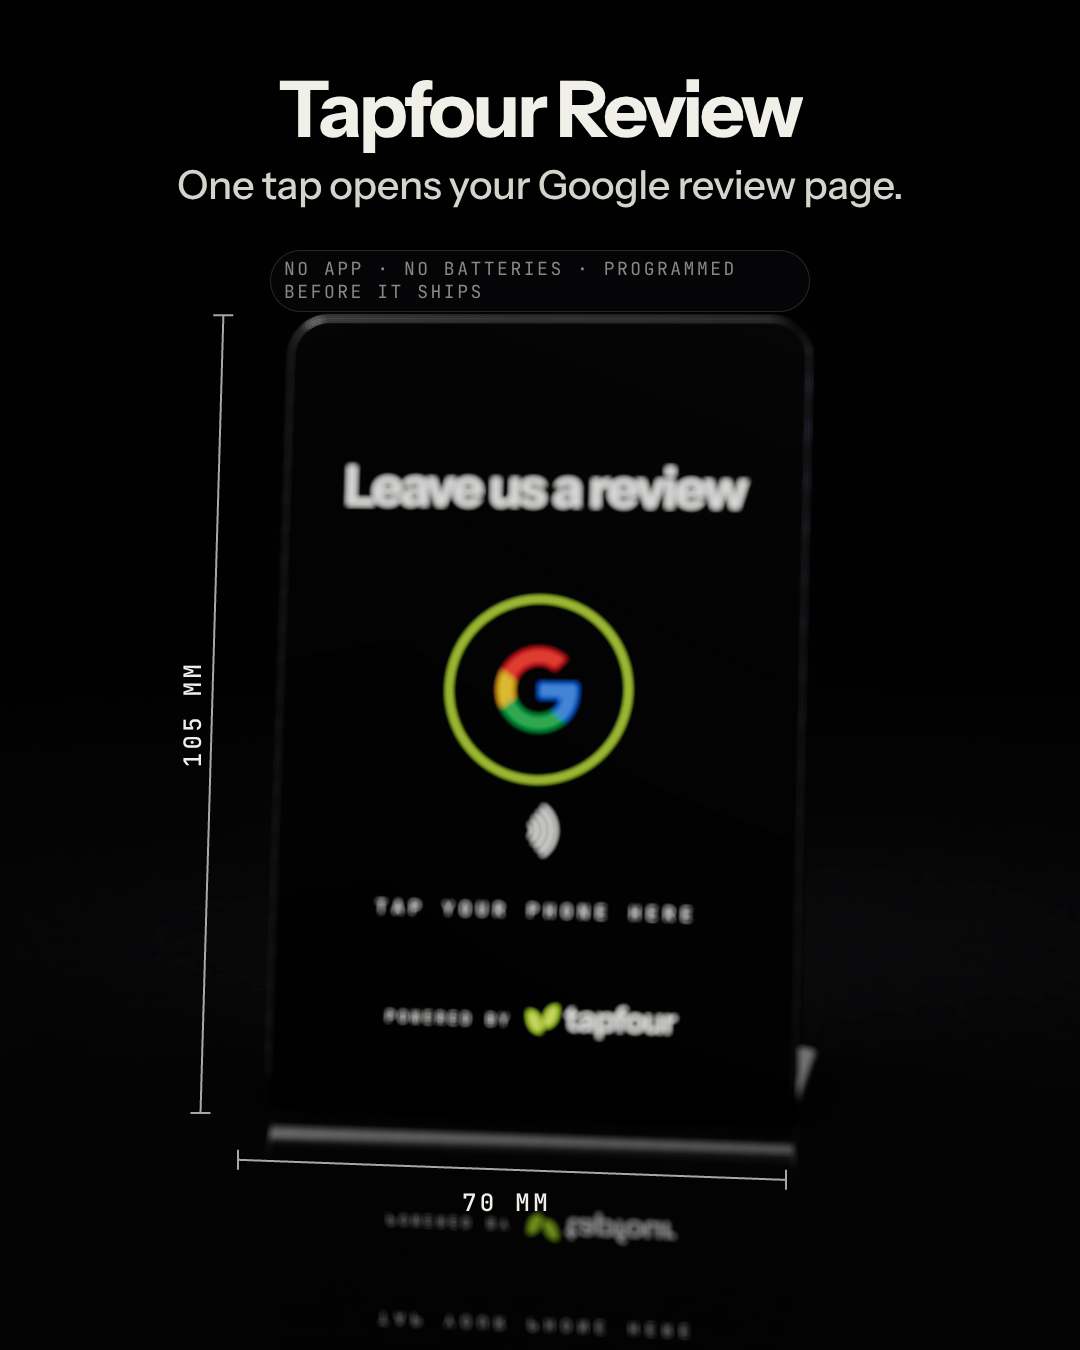
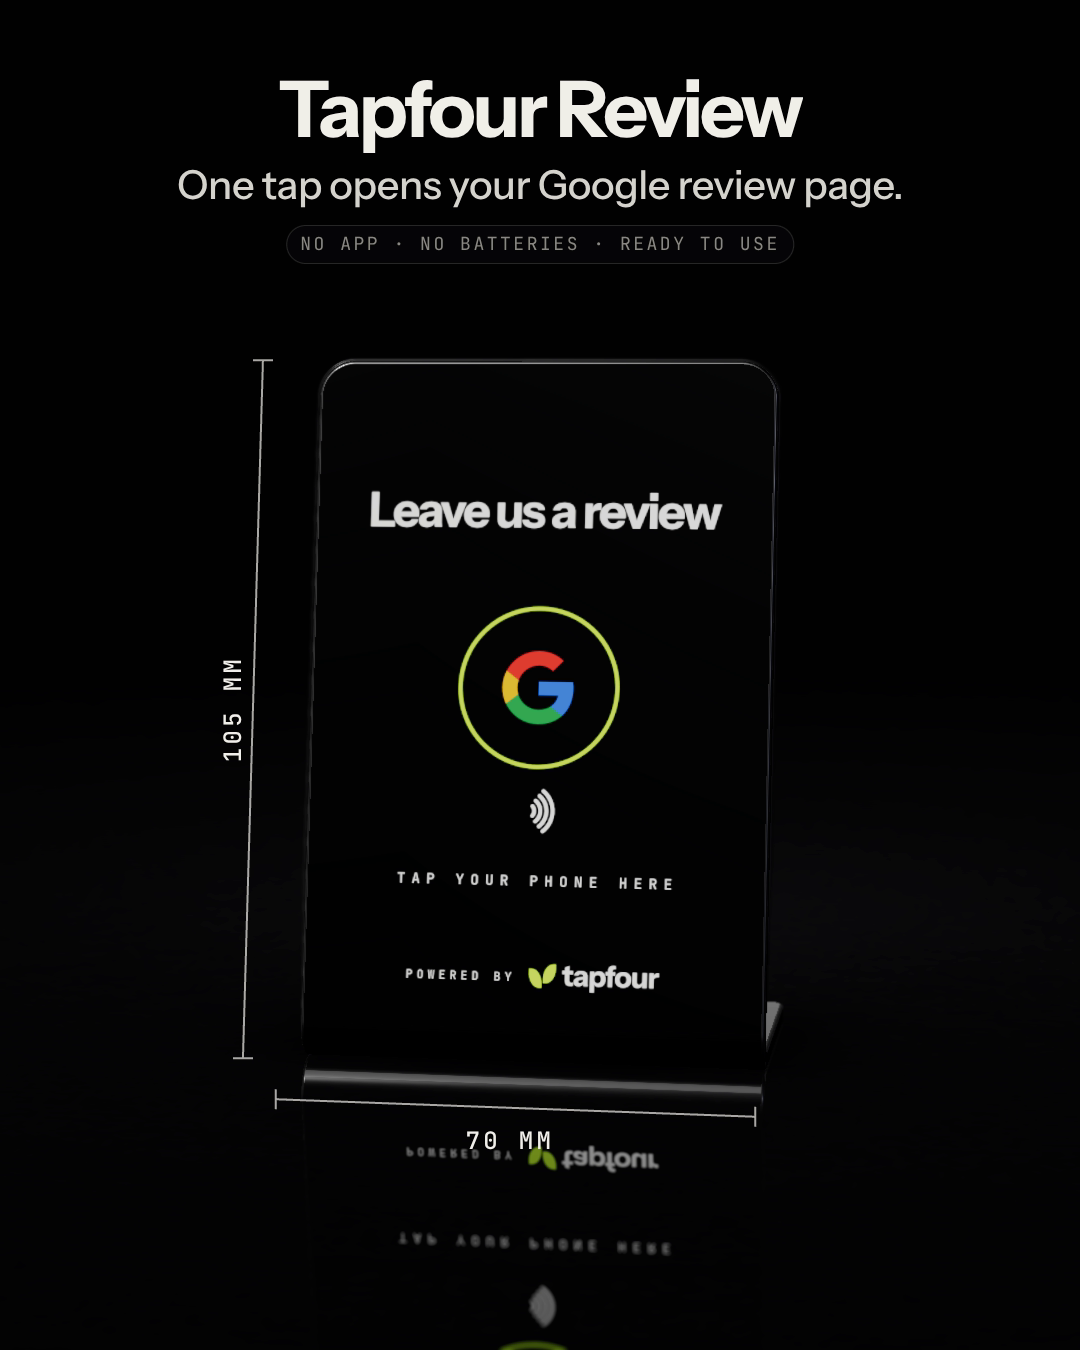
Campaign: fix detail-plate focus for stills; finalise carousel and story
The detail plate measured focus from the previous frame's camera, which blurred
single-frame statics. Re-rendered carousel slide 3 and the story.

Claude-Session: https://claude.ai/code/session_016A6PEYTBQywQ3XAkc9PKVC

diff --git a/campaign/web/shots/details.js b/campaign/web/shots/details.js
@@ -30,21 +30,21 @@ export async function update(t) {
     const k = t / CUTS[0];
     pos = kf(k, [[0, [120, 150, 95]], [1, [95, 142, 110]]], ease.sine); tgt = [26, 100, -6];
     S.scene.environmentRotation.y = -0.9 + k * 1.1;
-    f = S.cam.position.distanceTo(new THREE.Vector3(30, 100, -8));
+    f = new THREE.Vector3(30, 100, -8);
   } else if (t < CUTS[1]) { // 2 · the bend and the base, low side angle
     const k = (t - CUTS[0]) / (CUTS[1] - CUTS[0]);
     stand.rotation.y = -1.18 - 0.3 * ease.sine(k);
     pos = kf(k, [[0, [-20, 40, 290]], [1, [-8, 42, 272]]], ease.sine); tgt = [-6, 30, -12];
     S.scene.environmentRotation.y = 0.2 + k * 0.6;
-    f = S.cam.position.distanceTo(new THREE.Vector3(0, 30, -8));
+    f = new THREE.Vector3(0, 30, -8);
   } else { // 3 · frontal hero, the whole stand, dimensions draw on
     const k = seg(t, CUTS[1], duration);
     pos = kf(k, [[0, [150, 124, 500]], [1, [70, 108, 462]]], ease.out); tgt = kf(k, [[0, [0, 60, -5]], [1, [0, 58, -5]]], ease.out);
     S.scene.environmentRotation.y = -0.4 + ease.inOut(k) * 0.7;
-    f = S.cam.position.distanceTo(new THREE.Vector3(0, 55, 0));
+    f = new THREE.Vector3(0, 55, 0);
   }
   S.cam.position.set(...pos); S.cam.lookAt(...tgt);
-  S.focus(f);
+  S.focus(S.cam.position.distanceTo(f)); // focus on the subject from this frame's camera
   S.render();
   // dimensions: only in the hero section
   const d = seg(t, CUTS[1] + 1.2, CUTS[1] + 2.2), o = t > CUTS[1] ? 1 : 0;

diff --git a/campaign/web/edits/statics.js b/campaign/web/edits/statics.js
@@ -33,6 +33,6 @@ export default [
   ] },
   { name: 'story-9x16', fmt: '9x16', w: 1080, h: 1920, plate: 'details', T: 8.3, params: { zoom: 0.74 }, cues: [
     { kind: 'text', y: 250, lines: [['h1', 'One tap to your'], ['h1 lime', 'Google reviews.']] },
-    { kind: 'endcard', y: 1440, sub: 'Tapfour Review · Tapfour Connect', cta: 'Order at tap4.ph' }
+    { kind: 'endcard', y: 1510, sub: 'Tapfour Review · Tapfour Connect', cta: 'Order at tap4.ph' }
   ] }
 ];
